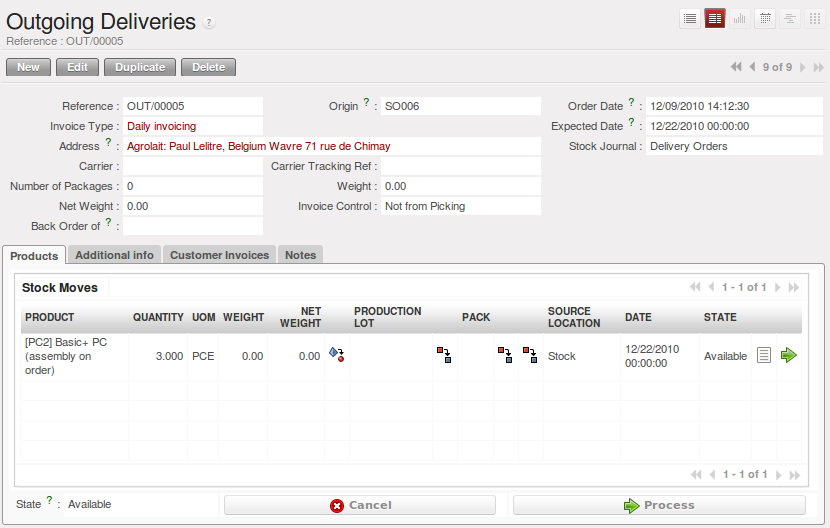
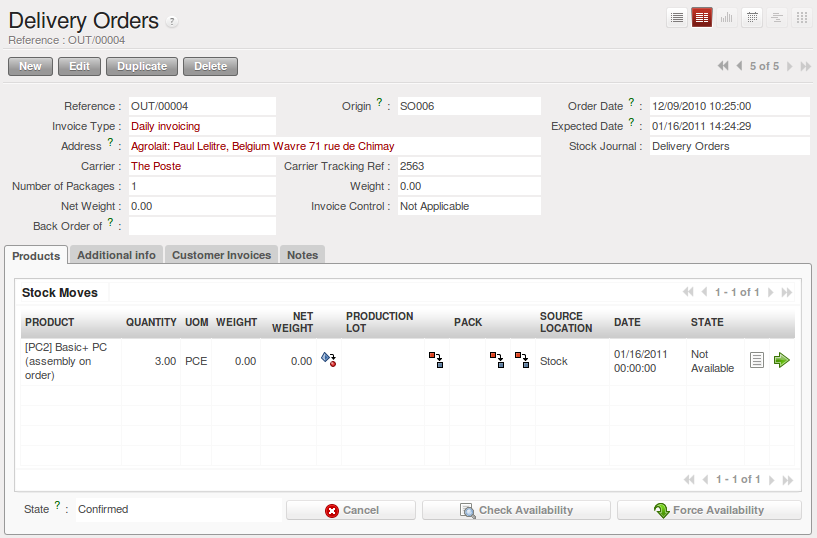
[IMP]: Warehouse: Outgoing deliverirs change to Delivery  Orders.

diff --git a/5/5_14_Stock/5_14_Stock_stocks.rst b/5/5_14_Stock/5_14_Stock_stocks.rst
@@ -236,7 +236,7 @@ times and priorities.
     This means that you do not have to start the scheduler or wait for its periodical start time.
 
 You can now look at the the list of deliveries waiting to be carried out using the menu
-:menuselection:`Warehouse --> Warehouse Management --> Outgoing Deliveries`. You find a line
+:menuselection:`Warehouse --> Warehouse Management --> Delivery Orders`. You find a line
 there for your order representing the items to be sent. Double-click the line to see the detail of
 the items proposed by Open ERP.
 
